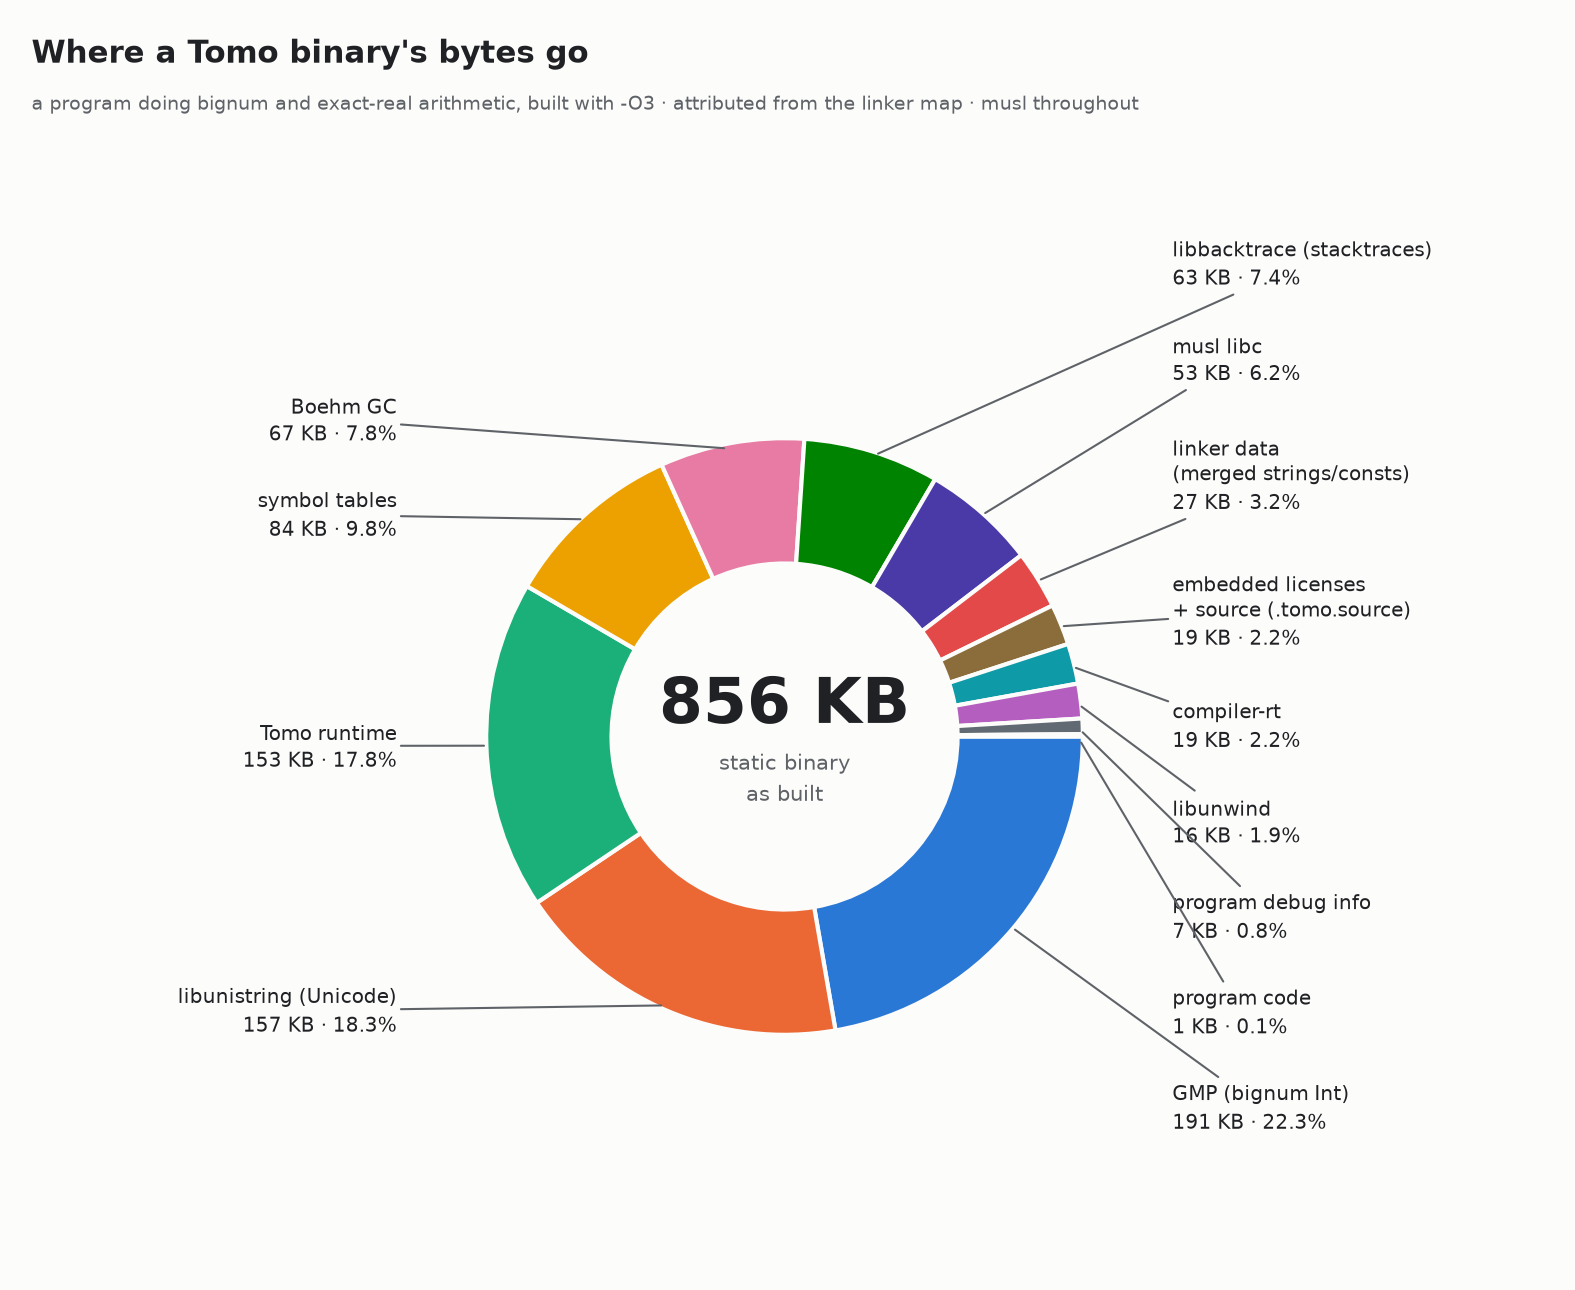
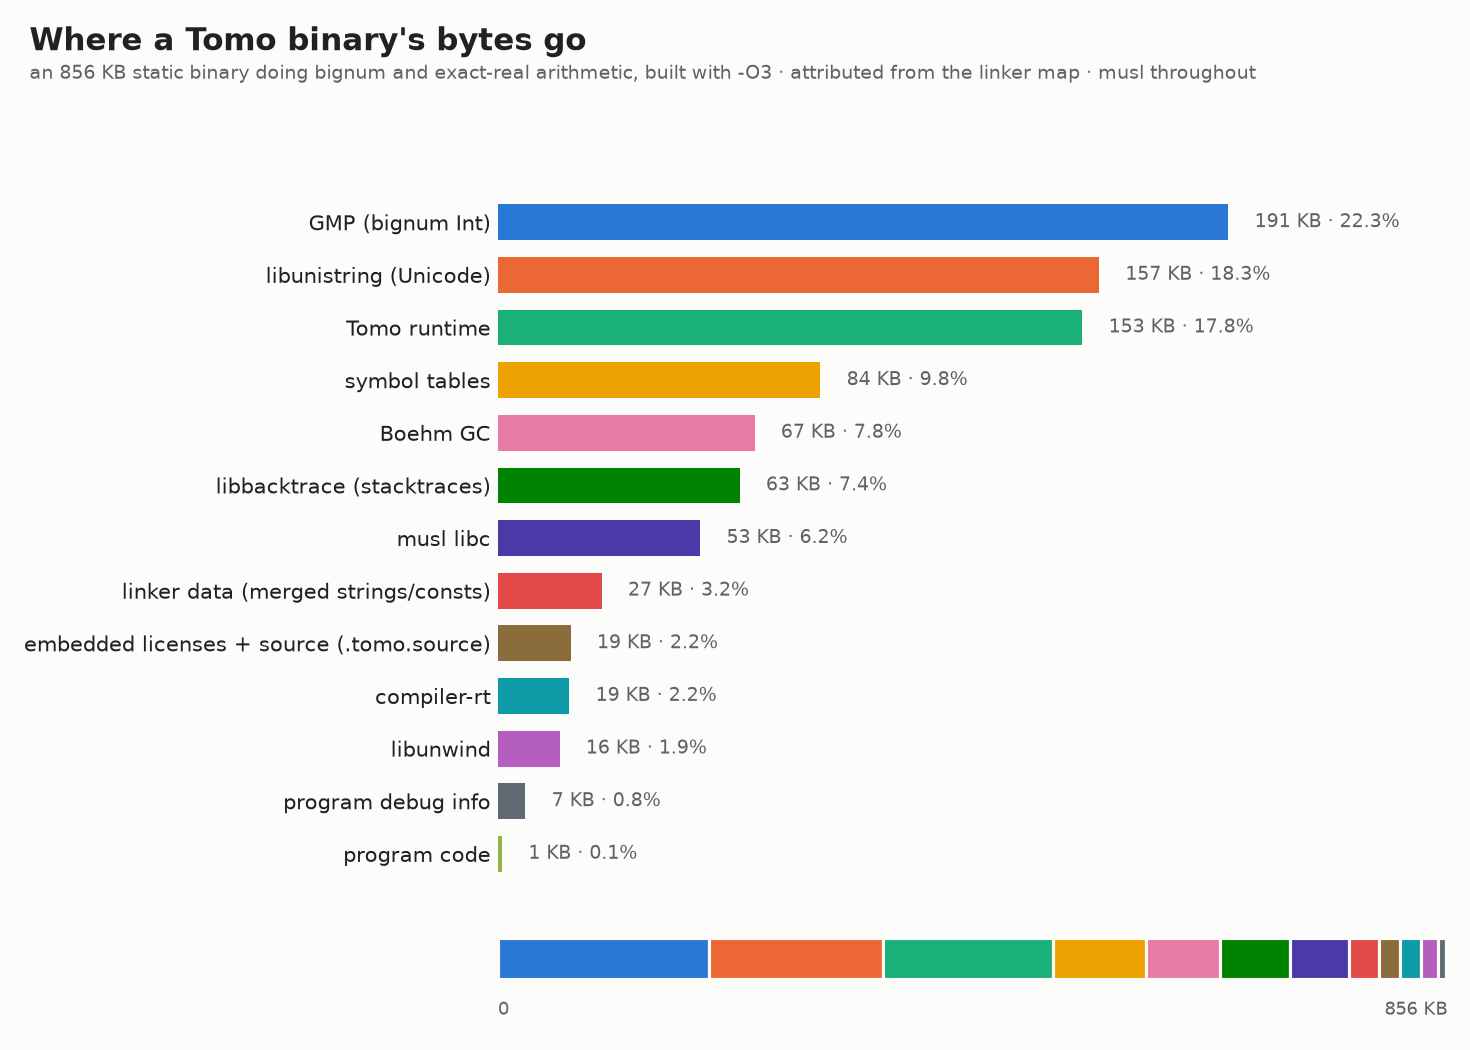
Draw the size breakdown as sorted bars instead of a donut
With thirteen components the reader's question is "what's big, what's
small, by how much", and bars answer it directly where arc lengths make
you squint. The names become plain axis labels, which also deletes the
donut's whole leader-line layout solver, the part of this script that
went wrong three times while it existed. A slim unlabeled strip below
the bars, in the same hues, keeps the one thing the donut did better:
showing the components tiling one binary from 0 to its full size.

Claude-Session: https://claude.ai/code/session_01L2ZhCMU5YGorDXMDhRSyZe

diff --git a/benchmarks/size_breakdown.py b/benchmarks/size_breakdown.py
@@ -4,14 +4,14 @@
 Builds a small program that exercises bignum `Int` and exact-real `Num`
 arithmetic (so GMP and the number engine are genuinely linked), re-links it
 with `--print-map`, and attributes every byte of the file to the archive it
-came from. The donut this draws is the answer to "why is a Tomo binary the
-size it is": mostly GMP, Unicode tables, and the runtime, with the program
-itself a sliver.
+came from. The chart this draws (sorted bars, plus a strip showing the same
+components as shares of the whole) is the answer to "why is a Tomo binary
+the size it is": mostly GMP, Unicode tables, and the runtime, with the
+program itself a sliver.
 
 Usage: python3 size_breakdown.py   (writes size-breakdown.svg and .png)
 """
 import glob
-import math
 import os
 import re
 import subprocess
@@ -136,83 +136,63 @@ def attribute(map_text, binpath):
 def draw(grouped, file_size):
     parts = sorted(grouped.items(), key=lambda t: -t[1])
     total = sum(v for _, v in parts)
+    flat = [(n.replace("\n", " "), v) for n, v in parts]
 
-    fig, ax = plt.subplots(figsize=(10.5, 8.6))
+    fig, (ax, ax2) = plt.subplots(2, 1, figsize=(9.8, 7.0),
+                                  height_ratios=[13, 1.1])
     fig.patch.set_facecolor(SURFACE)
-    ax.set_facecolor(SURFACE)
-    # Start the biggest slice at 3 o'clock: the large slices then fill the
-    # right and bottom, and the tail of small ones fans across the upper arc,
-    # splitting the labels between the two side columns instead of stacking
-    # them all on one side.
-    wedges, _ = ax.pie(
-        [v for _, v in parts], startangle=0, counterclock=False,
-        colors=HUES[:len(parts)],
-        wedgeprops=dict(width=0.42, edgecolor=SURFACE, linewidth=2))
+    for a in (ax, ax2):
+        a.set_facecolor(SURFACE)
 
-    # Every slice is direct-labeled, so identity never rides on color alone.
-    # Many thin slices land at nearly the same angle, so lay each side's
-    # labels out as a 1D no-overlap problem: sort by natural height, walk up
-    # enforcing each pair's minimum separation (derived from the labels' own
-    # line counts), and shift the column back down if it overran the top.
-    LINE_H = 0.135  # one text line, in axis units, at this font size
-    placed = []
-    for w, (name, val) in zip(wedges, parts):
-        ang = (w.theta2 + w.theta1) / 2
-        x, y = math.cos(math.radians(ang)), math.sin(math.radians(ang))
-        text = f"{name}\n{val/1024:.0f} KB · {100*val/total:.1f}%"
-        placed.append({"text": text, "x": x, "y": y, "ang": ang,
-                       "right": x >= 0,
-                       "half": (text.count("\n") + 1) * LINE_H / 2})
-    TOP, BOTTOM = 1.72, -1.72
-    for right in (True, False):
-        side = sorted((p for p in placed if p["right"] == right),
-                      key=lambda p: p["y"])
-        gaps = [side[i - 1]["half"] + side[i]["half"] + 0.05
-                for i in range(1, len(side))]
-        for p in side:
-            p["ly"] = p["y"]
-        # Forward pass pushes overlapping labels up; the backward pass then
-        # pulls the column back under TOP, moving labels below their natural
-        # spot where needed. Order is preserved, so leader lines don't cross.
-        for i in range(1, len(side)):
-            side[i]["ly"] = max(side[i]["ly"], side[i - 1]["ly"] + gaps[i - 1])
-        if side:
-            side[-1]["ly"] = min(side[-1]["ly"], TOP - side[-1]["half"])
-        for i in range(len(side) - 2, -1, -1):
-            side[i]["ly"] = min(side[i]["ly"], side[i + 1]["ly"] - gaps[i])
-        if side and side[0]["ly"] - side[0]["half"] < BOTTOM:
-            raise SystemExit("label layout does not fit; grow the figure")
-    for p in placed:
-        ax.annotate(
-            p["text"],
-            xy=(0.98 * p["x"], 0.98 * p["y"]),
-            xytext=(1.30 if p["right"] else -1.30, p["ly"]),
-            ha="left" if p["right"] else "right", va="center",
-            fontsize=9.5, color=INK, linespacing=1.35,
-            arrowprops=dict(arrowstyle="-", color=MUTED, linewidth=1,
-                            shrinkA=0, shrinkB=4))
+    # Sorted bars carry the magnitudes: with this many components the reader's
+    # question is "what's big, what's small, by how much", which arc lengths in
+    # a pie answer poorly. Names are plain axis labels, so nothing can collide.
+    names = [n for n, _ in flat]
+    vals = [v for _, v in flat]
+    y = range(len(flat))
+    ax.barh(y, vals, color=HUES[:len(flat)], height=0.68)
+    ax.invert_yaxis()
+    ax.set_yticks(list(y))
+    ax.set_yticklabels(names, fontsize=10, color=INK)
+    for yi, v in zip(y, vals):
+        ax.text(v + total * 0.008, yi,
+                f"{v/1024:.0f} KB · {100*v/total:.1f}%",
+                va="center", fontsize=9, color=MUTED)
+    ax.set_xlim(0, max(vals) * 1.30)
+    for sp in ("top", "right", "left", "bottom"):
+        ax.spines[sp].set_visible(False)
+    ax.tick_params(length=0)
+    ax.set_xticks([])
 
-    ax.text(0, 0.10, f"{total/1024:.0f} KB", ha="center", va="center",
-            fontsize=30, fontweight="bold", color=INK)
-    ax.text(0, -0.14, "static binary\nas built", ha="center", va="center",
-            fontsize=10, color=MUTED, linespacing=1.4)
-    ax.set(aspect="equal", xlim=(-2.15, 2.15), ylim=(-1.78, 1.78))
-    ax.axis("off")
-    fig.suptitle("Where a Tomo binary's bytes go", x=0.02, y=0.97, ha="left",
+    # The strip keeps the part-to-whole reading a pie gives: the same
+    # components tiling one binary from 0 to its full size, in the same hues
+    # as the bars above, so it needs no labels of its own.
+    left = 0
+    for (name, v), hue in zip(flat, HUES):
+        ax2.barh([0], [v], left=left, color=hue, height=1.0,
+                 edgecolor=SURFACE, linewidth=1.5)
+        left += v
+    ax2.set(xlim=(0, total), ylim=(-0.75, 0.75))
+    ax2.axis("off")
+    ax2.text(0, -1.35, "0", fontsize=8.5, color=MUTED, ha="left")
+    ax2.text(total, -1.35, f"{total/1024:.0f} KB", fontsize=8.5, color=MUTED,
+             ha="right")
+
+    fig.suptitle("Where a Tomo binary's bytes go", x=0.02, y=0.975, ha="left",
                  fontsize=15, fontweight="bold", color=INK)
-    fig.text(0.02, 0.915,
-             "a program doing bignum and exact-real arithmetic, built with "
-             "-O3 · attributed from the linker map · musl throughout",
+    fig.text(0.02, 0.925,
+             f"an {total/1024:.0f} KB static binary doing bignum and "
+             "exact-real arithmetic, built with -O3 · attributed from the "
+             "linker map · musl throughout",
              ha="left", fontsize=9, color=MUTED)
-    fig.tight_layout(rect=[0, 0, 1, 0.90])
+    fig.tight_layout(rect=[0, 0.01, 1, 0.91])
     for ext, dpi in (("svg", None), ("png", 150)):
         out = os.path.join(HERE, f"size-breakdown.{ext}")
         fig.savefig(out, dpi=dpi, facecolor=SURFACE)
         print(f"wrote {out}")
 
-    for name, val in parts:
-        flat = name.replace("\n", " ")
-        print(f"  {val/1024:7.1f} KB  {100*val/total:5.1f}%  {flat}")
+    for name, val in flat:
+        print(f"  {val/1024:7.1f} KB  {100*val/total:5.1f}%  {name}")
     print(f"  {total/1024:7.1f} KB attributed of a {file_size/1024:.1f} KB file")
 
 
